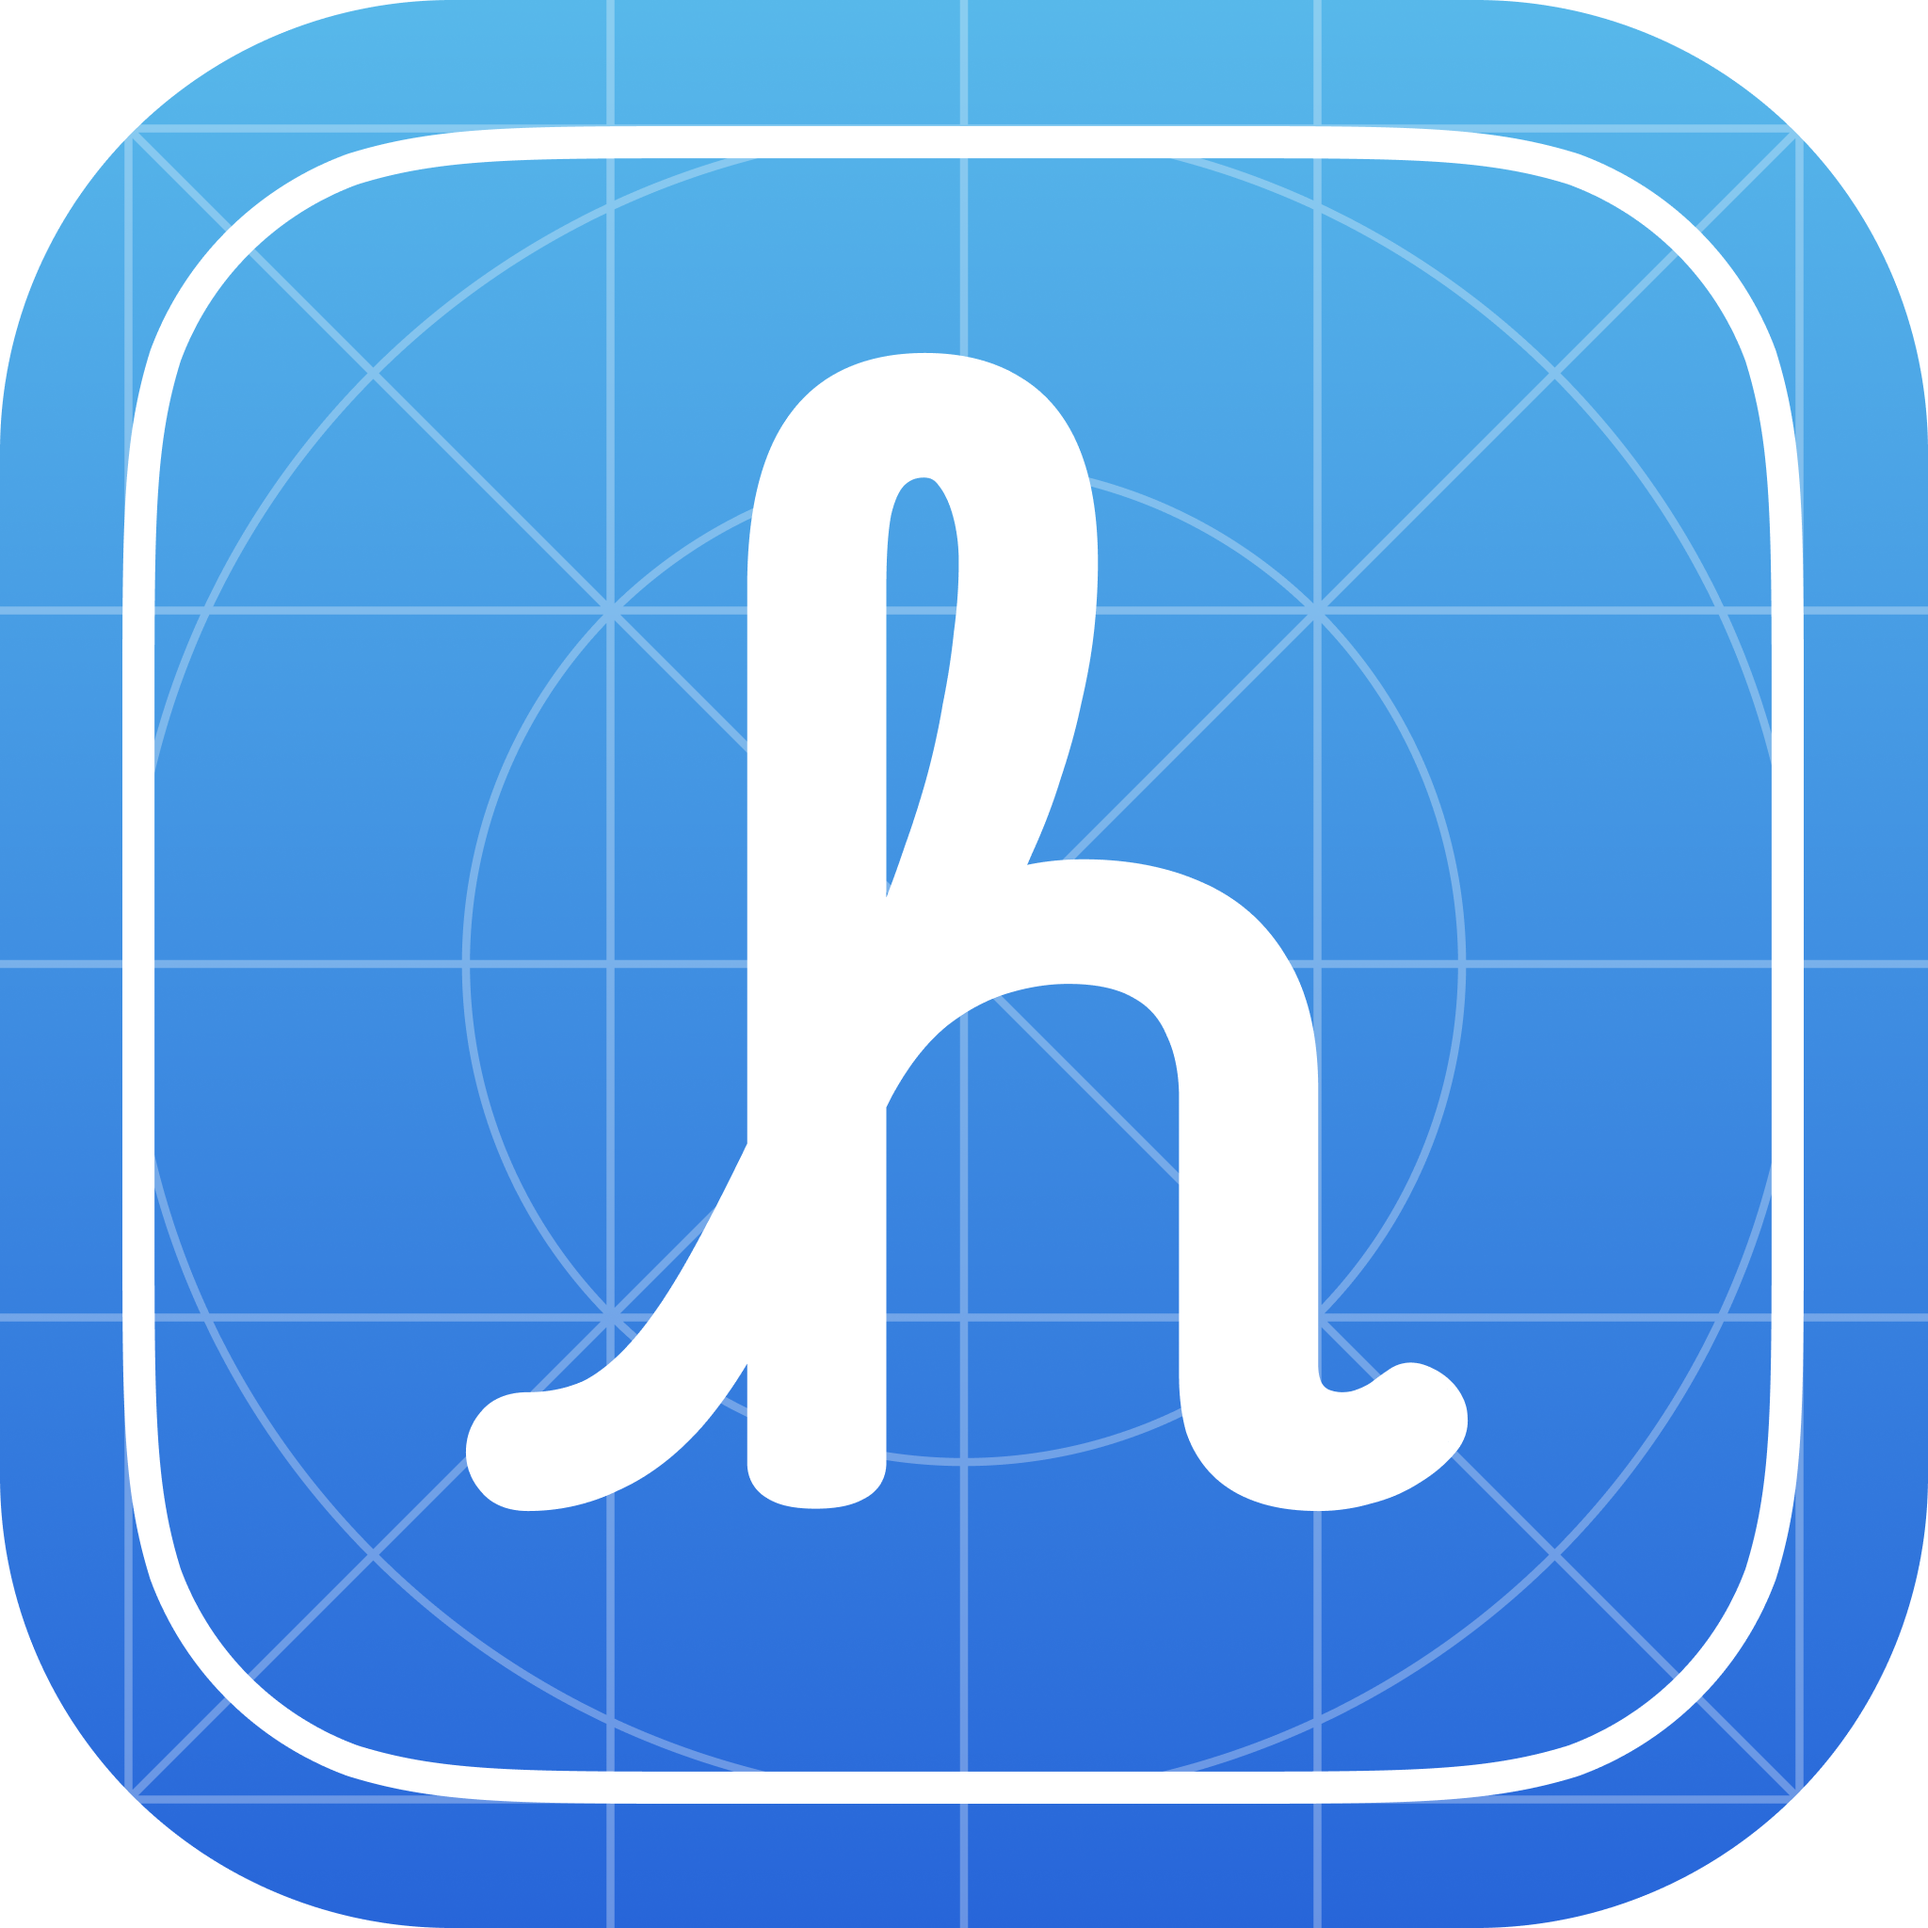
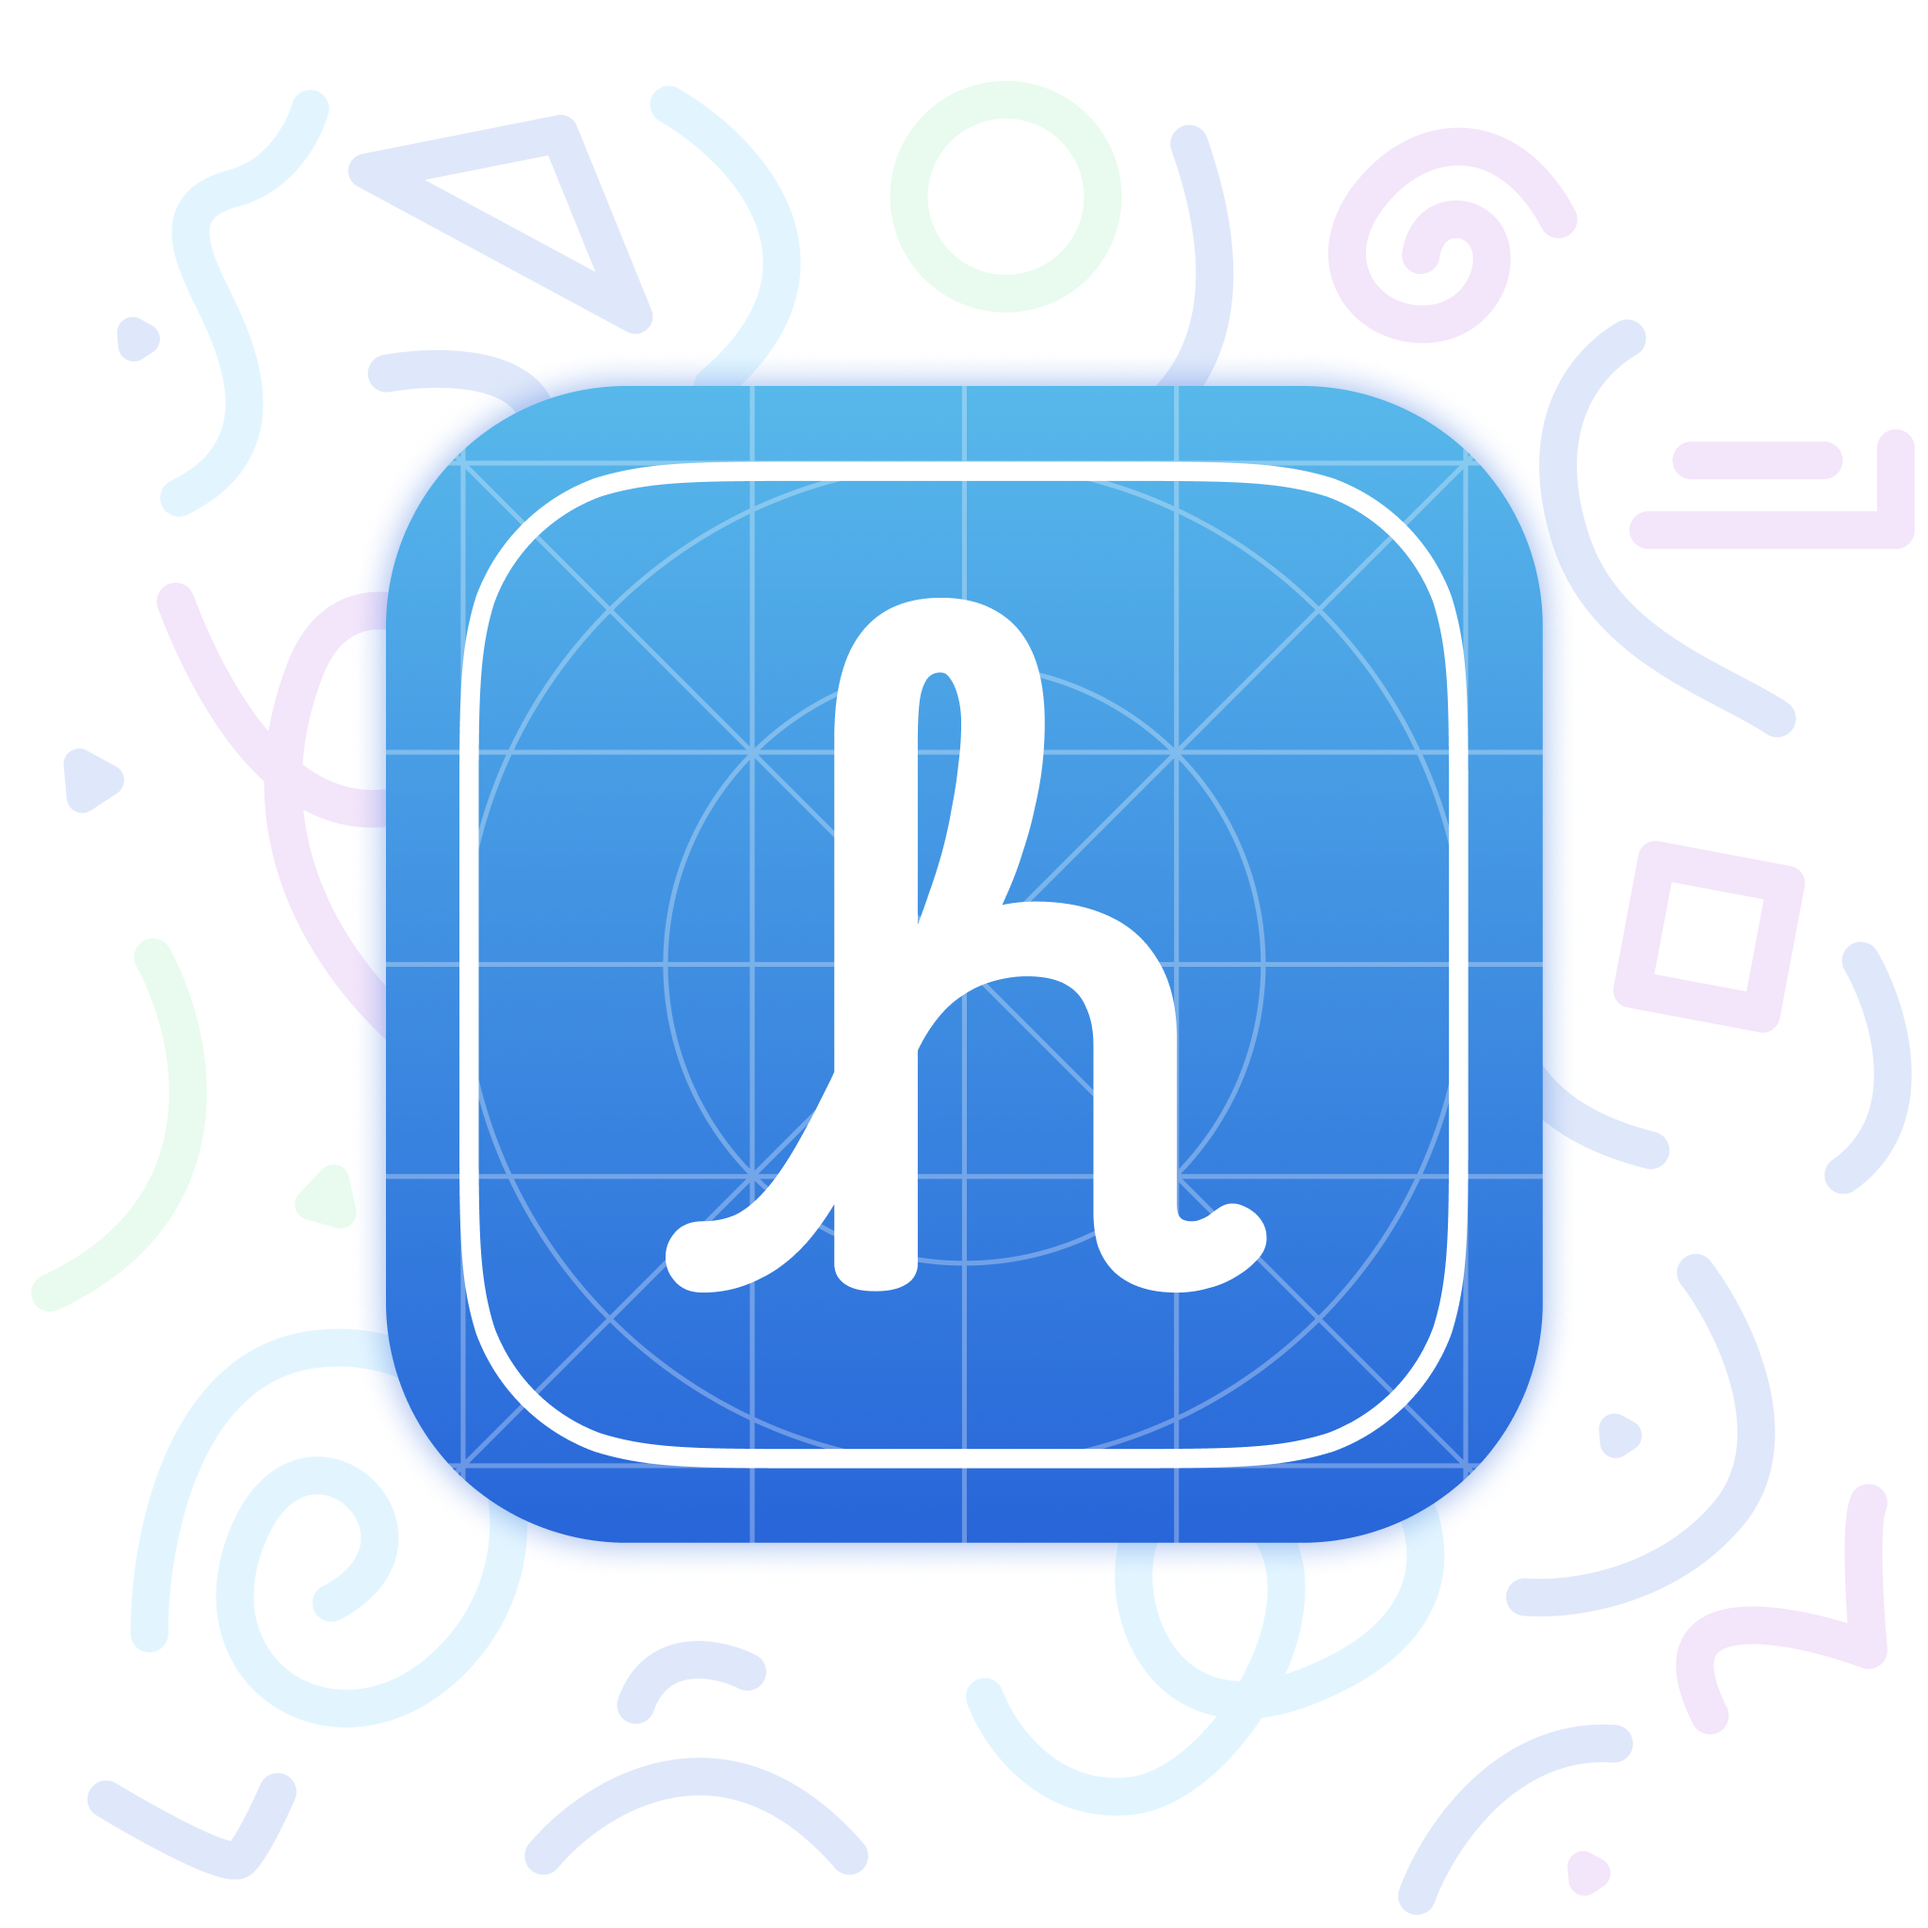
Updates the README

diff --git a/README.md b/README.md
@@ -1,0 +1,12 @@
+<div align="center">
+  <img src="Repo/Icon.png" alt="Icon" width="20%">
+</div>
+
+## Abstract 💭
+Traces is an Xcode playground app designed to help kids practice their handwriting skills, turning traditional tracing sheets into a fun experience. Using an iPad and Apple Pencil, it offers a fresh and interactive way to learn, leaving pen and paper behind!
+> This app was submitted to the Apple Swift Student Challenge 2025 but unfortunately it did not make it into the 350 worldwide winners. <br> Huge congrats to all the winners for their stunning projects 🥂✨
+
+<div align="center">
+  <img src="Repo/UI.png" alt="UI" width="100%">
+</div>
+<br>
